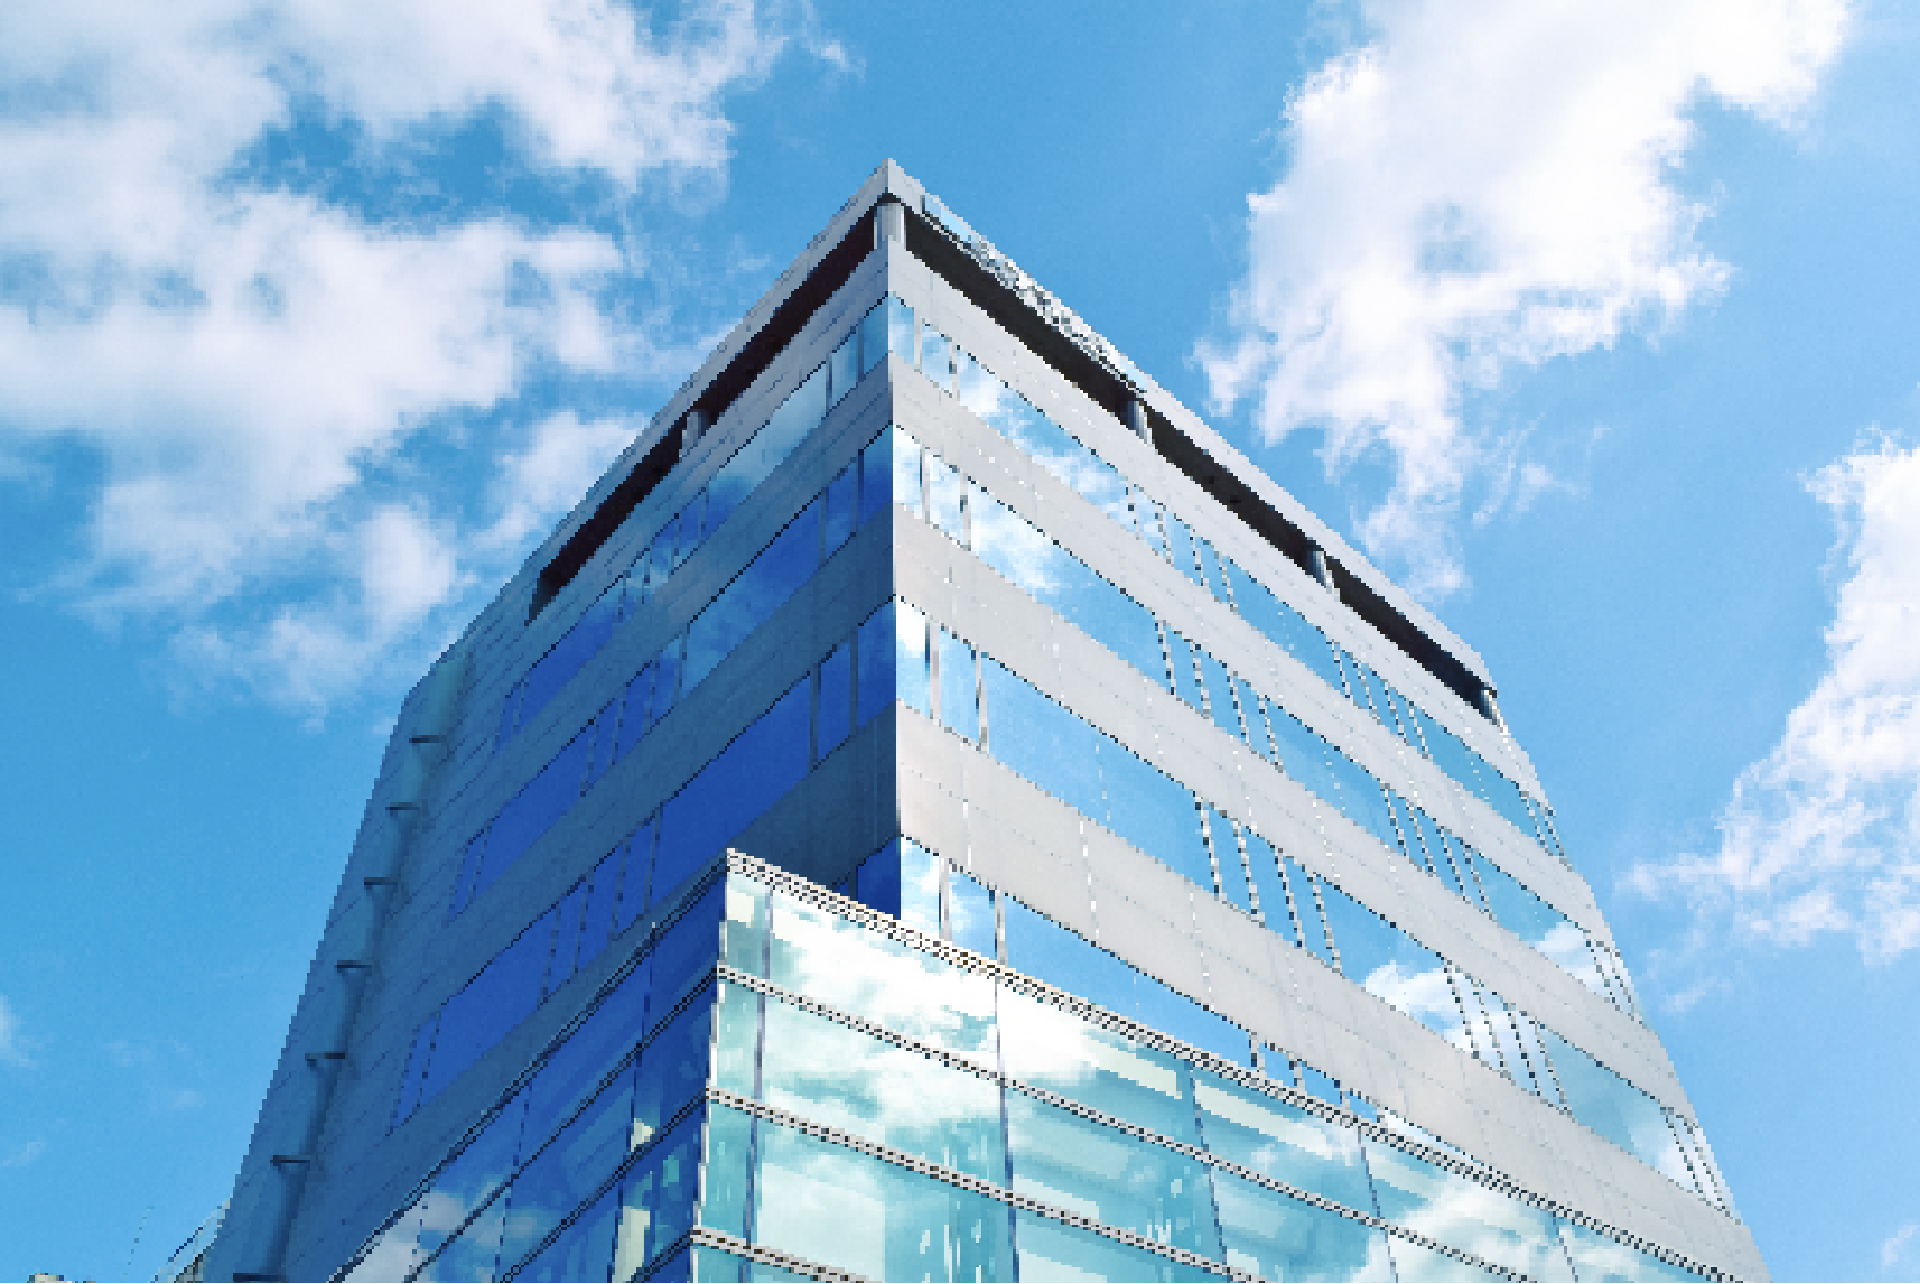
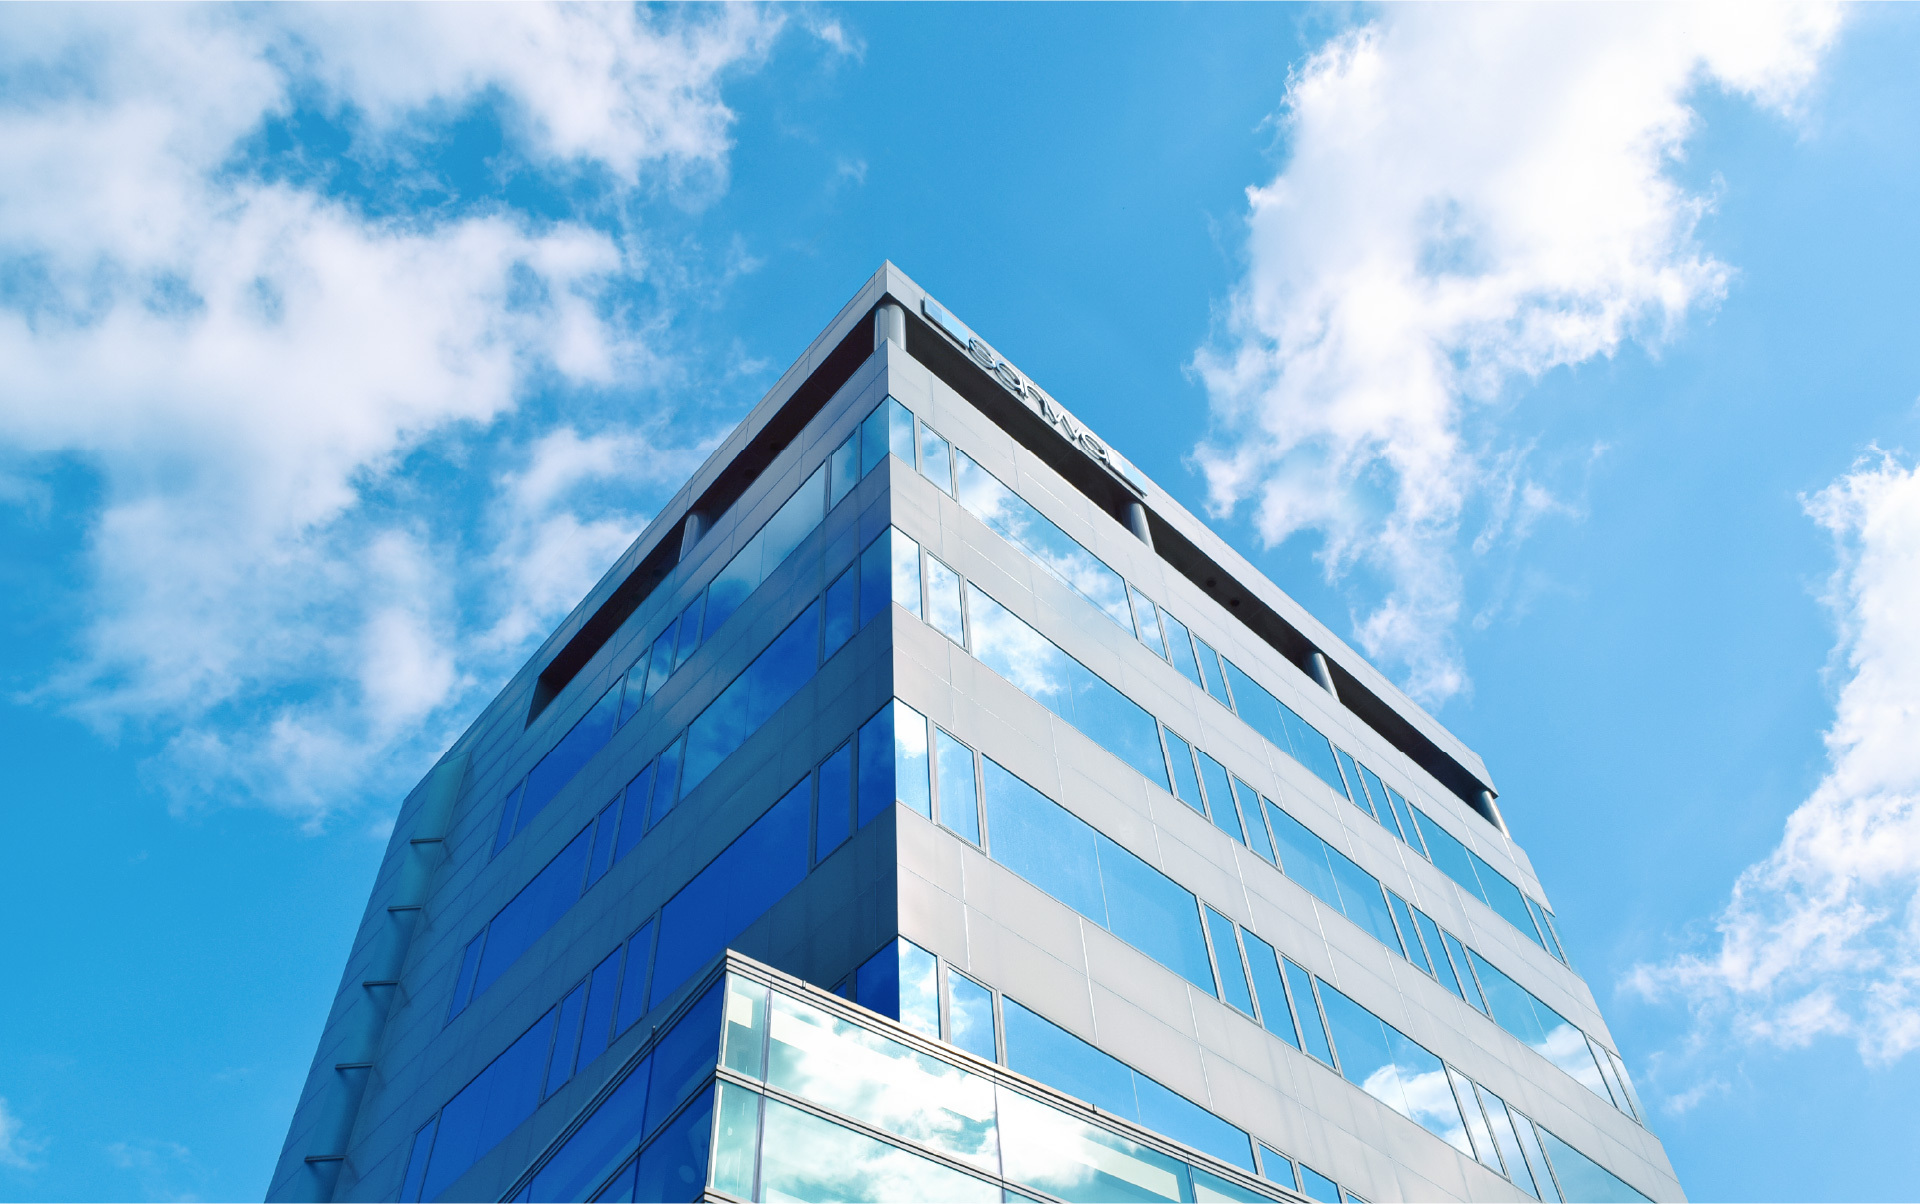
メインビジュアル修正

diff --git a/assets/js/main.js b/assets/js/main.js
@@ -189,50 +189,84 @@ $(function () {
 
   // スライドメニューにアコーディオン
   $('.slide-menu__top-link-content').hide(); // 初めに非表示
-  $('.top-link-js').on('click', function(){
-      $(this).next('.slide-menu__top-link-content').slideToggle();
+  $('.top-link-js').on('click', function () {
+    $(this).next('.slide-menu__top-link-content').slideToggle();
   });
 
 
   // トップに戻るボタン
-  $('.footer__scroll-btn').click(function(e) {
+  $('.footer__scroll-btn').click(function (e) {
     e.preventDefault(); // もしaタグなどの場合、デフォルトの挙動を防ぐ
-    $('html, body').animate({ scrollTop: 0 }, 800); // 0.5秒でトップへ
+    $('html, body').animate({
+      scrollTop: 0
+    }, 800); // 0.5秒でトップへ
   });
 
-  $( window ).bind( 'scroll', function() {
-    scrolled = $( window ).scrollTop();
+  $(window).bind('scroll', function () {
+    scrolled = $(window).scrollTop();
     weight1 = 0.1;
     weight2 = 0.1;
-    $( '.parallax3' ).css( 'top', 800 - scrolled * weight1 + 'px' );
-    $( '.parallax4' ).css( 'top', 1000 - scrolled * weight2 + 'px' );
+    $('.parallax3').css('top', 800 - scrolled * weight1 + 'px');
+    $('.parallax4').css('top', 1000 - scrolled * weight2 + 'px');
   });
 
 
   // パララックス
-  $(window).on('scroll', function() {
+  $(window).on('scroll', function () {
     var scrollPosition = $(this).scrollTop();
-  
+
     // パララックスを適用したい要素の動きを設定
     $('.parallax1').css('transform', 'translateY(' + scrollPosition * 0.4 + 'px)');
     $('.parallax2').css('transform', 'translateY(' + scrollPosition * 0.1 + 'px)');
   });
 
 
-   // スマホの時はスクロールさせない
-   $(".open-btn-js02").click(function () {
+  // スマホの時はスクロールさせない
+  $(".open-btn-js02").click(function () {
     if ($(window).width() <= 768) { // スマホサイズ
       const body = $("body");
       const isLocked = body.css("overflow") === "hidden";
-  
+
       if (isLocked) {
-        body.css({ height: "", overflow: "" });
+        body.css({
+          height: "",
+          overflow: ""
+        });
       } else {
-        body.css({ height: "100%", overflow: "hidden" });
+        body.css({
+          height: "100%",
+          overflow: "hidden"
+        });
       }
     }
   });
- 
+
+
+  const $images = $('.main-visual-top-js img');
+  let current = 0;
+  const imageCount = $images.length;
+
+  // 初回の切り替えを1.5秒後にスタート
+  setTimeout(() => {
+    // その後は通常通り繰り返し
+    setInterval(() => {
+      $images.eq(current).removeClass('active');
+      current = (current + 1) % imageCount;
+      $images.eq(current).addClass('active');
+    }, 3000); // 切り替え間隔も1.5秒
+  }, 1500); // ← これが開始までの遅延
+
+
+  const $images2 = $('.main-visual-bottom-js img');
+  let current2 = 0;
+  const imageCount2 = $images2.length;
+
+  setInterval(() => {
+    $images2.eq(current2).removeClass('active');
+    current2 = (current2 + 1) % imageCount2;
+    $images2.eq(current2).addClass('active');
+  }, 3000);
+
 
 
 })

diff --git a/assets/css/style.scss b/assets/css/style.scss
@@ -382,7 +382,7 @@ header（PC）
 
   @include tab {
     top: 62px;
-    height:  calc(100vh - 62px);
+    height: calc(100vh - 62px);
     padding: 40px 12px 140px;
   }
 
@@ -689,6 +689,7 @@ TOP
     max-width: 1020px;
     margin: 0 auto 120px;
     border-radius: 30px;
+    position: relative;
 
     @include pc {
       max-width: 880px;
@@ -787,12 +788,68 @@ TOP
     }
   }
 
-
   &__link {
     @include tab {
       width: calc((100% - 16px) / 2);
     }
   }
+
+  &__top {
+
+    img {
+      position: absolute;
+      bottom: -100px;
+      left: -200px;
+      width: 300px;
+      border-radius: 20px;
+      opacity: 0;
+      transition: opacity 1s ease;
+
+      &.active {
+        opacity: 1;
+      }
+
+      @media screen and (max-width: 1400px) {
+        left: -50px;
+      }
+
+      @include pc{
+      display: none;
+      }
+    }
+  }
+
+  &__bottom {
+
+    img {
+      position: absolute;
+      top: -100px;
+      right: -200px;
+      width: 300px;
+      border-radius: 20px;
+      opacity: 0;
+      transition: opacity 1s ease;
+
+      &.active {
+        opacity: 1;
+      }
+
+      @media screen and (max-width: 1400px) {
+        right: -50px;
+
+      }
+
+      @include pc{
+        display: none;
+        }
+    }
+  }
+
+
+
+  &__ {}
+
+  &__ {}
 }
 
 
@@ -1896,7 +1953,7 @@ footer
   background-color: #3071b9;
   padding: 40px 12px;
   font-size: 14px;
- position: relative;
+  position: relative;
 
   &__inner {
     max-width: 1120px;
@@ -1922,10 +1979,10 @@ footer
 
   &__top-item {
 
-    @include tab{
+    @include tab {
       width: 53%;
 
-      &:nth-of-type(even){
+      &:nth-of-type(even) {
         width: 38%;
       }
     }
@@ -1961,6 +2018,7 @@ footer
 
   &__top-link-box {
     margin: 0 0 18px 12px;
+
     a {
       color: rgb(255 255 255 / 50%);
     }

diff --git a/index copy.html b/index copy.html
@@ -1,0 +1,47 @@
+<!DOCTYPE html>
+<html lang="ja">
+<head>
+  <meta charset="UTF-8" />
+  <title>ふわっと画像切り替え</title>
+  <script src="https://code.jquery.com/jquery-3.6.0.min.js"></script>
+  <style>
+    #slider img {
+      position: absolute;
+      top: 0;
+      left: 0;
+      display: none;
+      width: 100%;
+      height: auto;
+    }
+    #slider {
+      position: relative;
+      width: 500px; /* お好きなサイズに調整 */
+      height: 300px;
+
+    }
+  </style>
+</head>
+<body>
+  <div id="slider">
+    <img src="/assets/img/company/company-section02_01.png" alt="Image 1" style="display: block;">
+    <img src="/assets/img/company/company-section02_02.png" alt="Image 2">
+    <img src="/assets/img/company/company-section02_03.png" alt="Image 3">
+  </div>
+
+  <script>
+    $(function() {
+      let $images = $('#slider img');
+      let current = 0;
+
+      setInterval(function() {
+        let next = (current + 1) % $images.length;
+
+        $images.eq(current).fadeOut(1000);
+        $images.eq(next).fadeIn(1000);
+
+        current = next;
+      }, 1000);
+    });
+  </script>
+</body>
+</html>

diff --git a/assets/css/style.css b/assets/css/style.css
@@ -3026,6 +3026,7 @@ TOP
   max-width: 1020px;
   margin: 0 auto 120px;
   border-radius: 30px;
+  position: relative;
 }
 @media (max-width: 1120px) {
   .main-visual__slider-wrap {
@@ -3117,7 +3118,50 @@ TOP
     width: calc((100% - 16px) / 2);
   }
 }
-
+.main-visual__top img {
+  position: absolute;
+  bottom: -100px;
+  left: -200px;
+  width: 300px;
+  border-radius: 20px;
+  opacity: 0;
+  transition: opacity 1s ease;
+}
+.main-visual__top img.active {
+  opacity: 1;
+}
+@media screen and (max-width: 1400px) {
+  .main-visual__top img {
+    left: -50px;
+  }
+}
+@media (max-width: 1120px) {
+  .main-visual__top img {
+    display: none;
+  }
+}
+.main-visual__bottom img {
+  position: absolute;
+  top: -100px;
+  right: -200px;
+  width: 300px;
+  border-radius: 20px;
+  opacity: 0;
+  transition: opacity 1s ease;
+}
+.main-visual__bottom img.active {
+  opacity: 1;
+}
+@media screen and (max-width: 1400px) {
+  .main-visual__bottom img {
+    right: -50px;
+  }
+}
+@media (max-width: 1120px) {
+  .main-visual__bottom img {
+    display: none;
+  }
+}
 .text-animation {
   color: #3071b9;
 }

diff --git a/index.html b/index.html
@@ -192,6 +192,17 @@
             <img src="assets/img/top/top-slider02.jpg">
           </div>
         </div>
+
+        <div class="main-visual__top main-visual-top-js">
+            <img src="assets/img/top/top-slider01.jpg"  class="active">
+            <img src="assets/img/top/top-slider03.jpg">
+            <img src="assets/img/top/top-slider02.jpg">
+        </div>
+        <div class="main-visual__bottom main-visual-bottom-js">
+          <img src="assets/img/top/top-slider03.jpg"  class="active">
+          <img src="assets/img/top/top-slider02.jpg">
+          <img src="assets/img/top/top-slider01.jpg" >
+        </div>
       </div>
       <div class="main-visual__link-wrap">
         <a href="" class="main-visual__link" target="_blank" rel="noopener"><img
